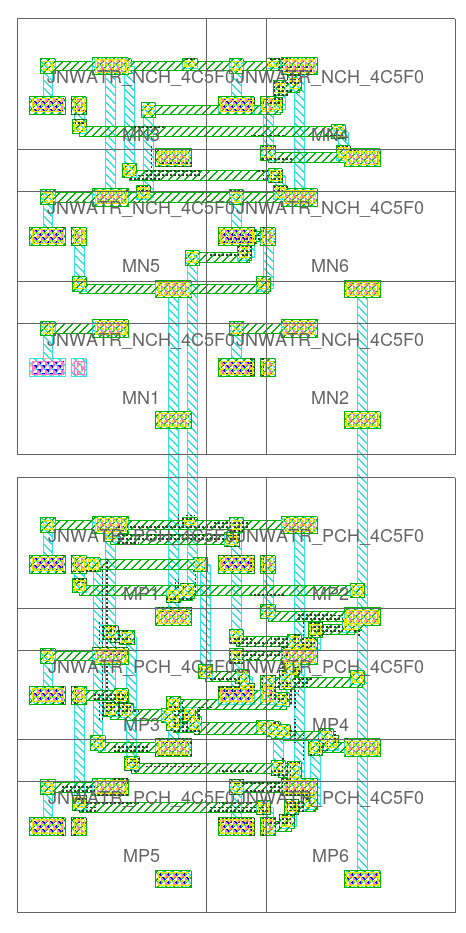
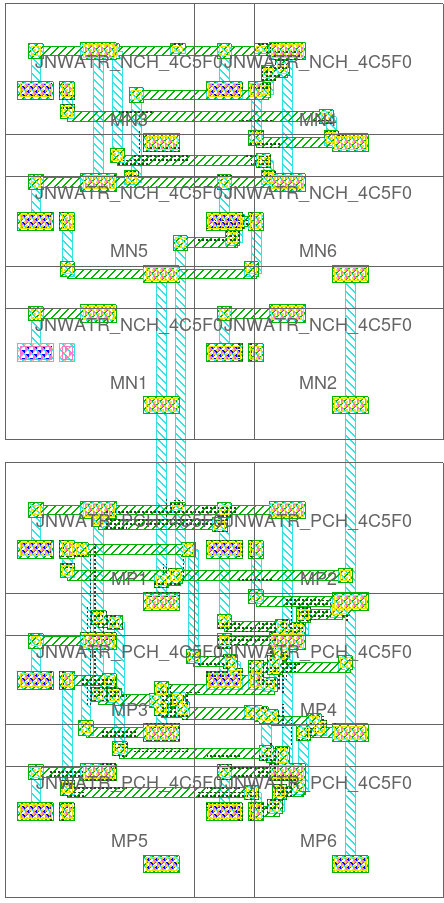
added pictures

diff --git a/magic/magic_layout_creator.py b/magic/magic_layout_creator.py
@@ -217,9 +217,7 @@ class MagicLayoutCreator:
                         # Check if the segment point is within the bounds of a specific port
                         if (port_pos.y2 >= segment_midpoint_y >= port_pos.y1
                                 or port_pos.x2 >= segment_midpoint_x >= port_pos.x1):
-                            #print(port_pos)
-                            #print(f"y: {segment_midpoint_y}")
-                            #print(f"x: {segment_midpoint_x}")
+
                             self.__via_placer(start_layer=segment.layer, end_layer=port.layer, area=port_pos)
 
                             self.logger.info(f"Connection point placed for port '{port.type}' of '{component.name}' "
@@ -274,10 +272,10 @@ class MagicLayoutCreator:
         invalid_segments = 0
 
         # Check if segmemts are valid
-        #for segment in component.segments:
-        #    if segment.area.x2 <= segment.area.x1 or segment.area.y2 <= segment.area.y1:
-        #        invalid_segments += 1
-        #        self.logger.error(f"For trace '{component.name}' segment area {segment.area} is invalid!")
+        for segment in component.segments:
+            if segment.area.x2 <= segment.area.x1 or segment.area.y2 <= segment.area.y1:
+                invalid_segments += 1
+                self.logger.error(f"For trace '{component.name}' segment area {segment.area} is invalid!")
 
         # Skip generation if there are invalid segmetns
         if invalid_segments != 0:

diff --git a/main.py b/main.py
@@ -68,7 +68,7 @@ def main():
     save_to_json(objects=components, file_name="json_tool/components.json")
 
     # Read JSON file
-    found_stuff = load_from_json(file_name="json_tool/TracesLO1 6.json")
+    found_stuff = load_from_json(file_name="json_tool/TracesLO1 12.json")
 
     # An example test trace with 2 segments
     a_trace = Trace()
